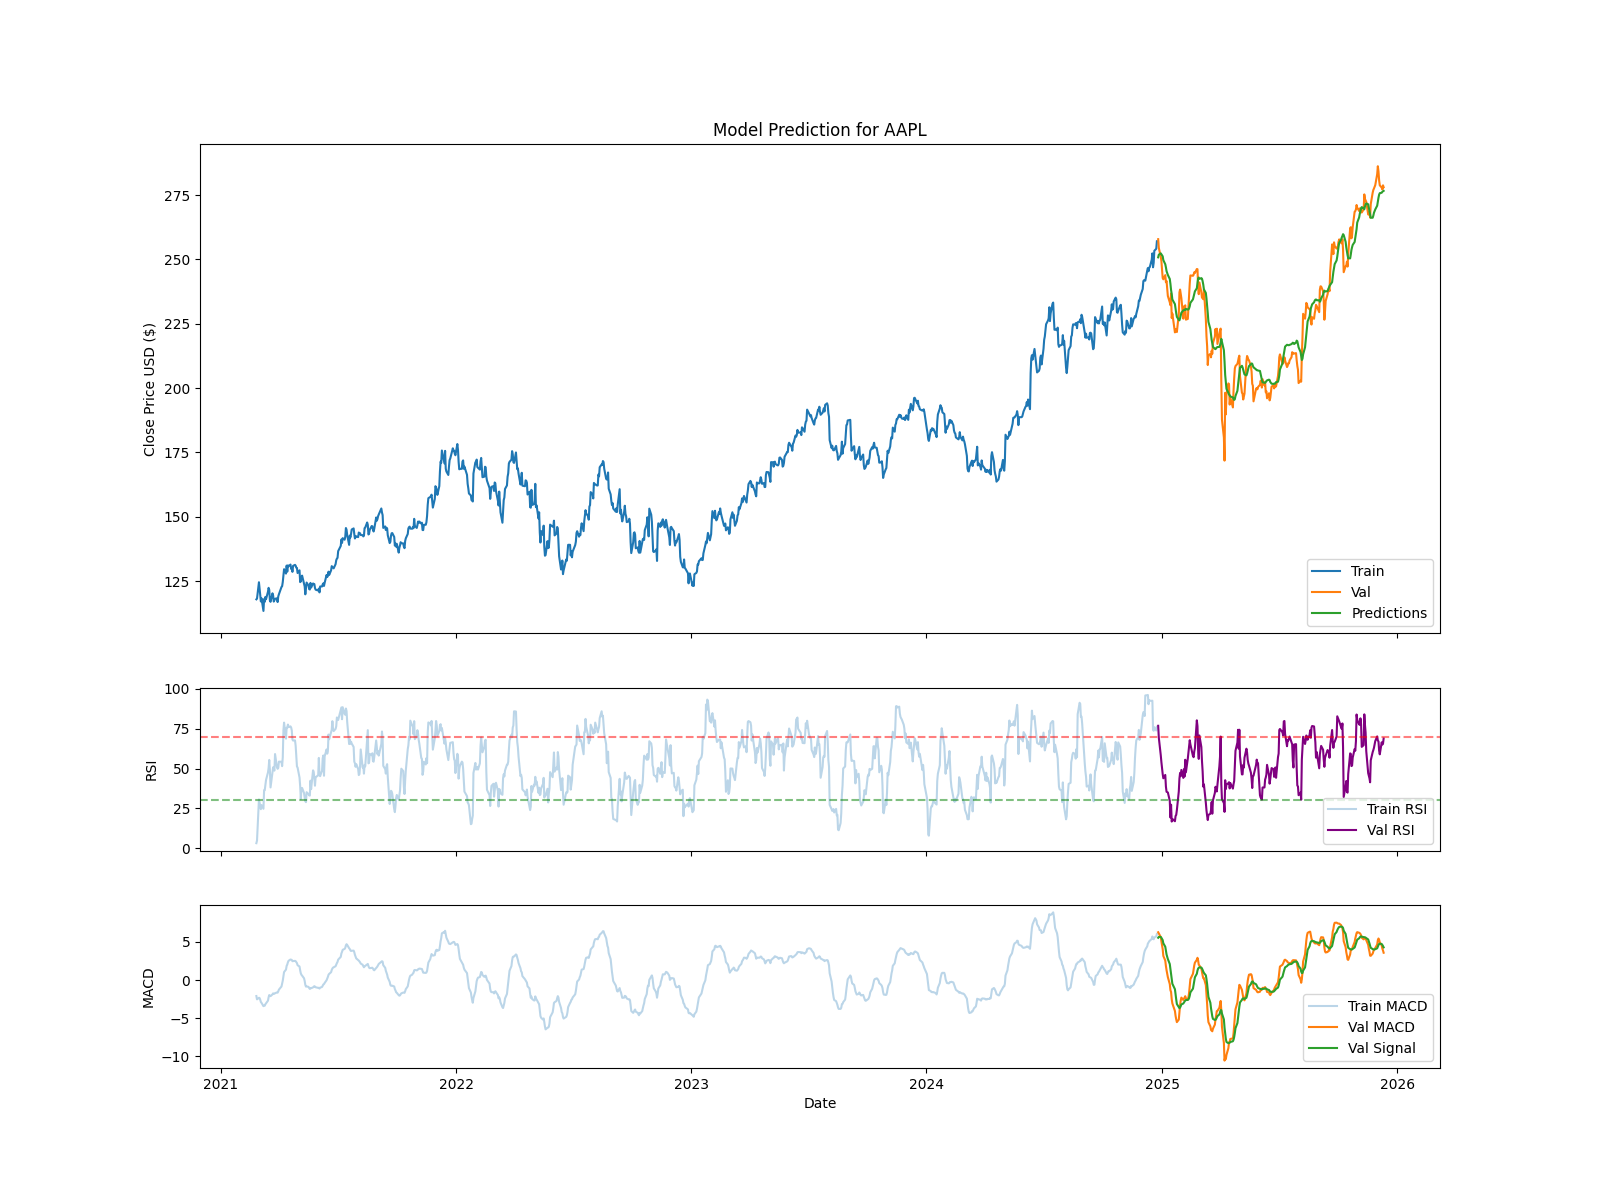
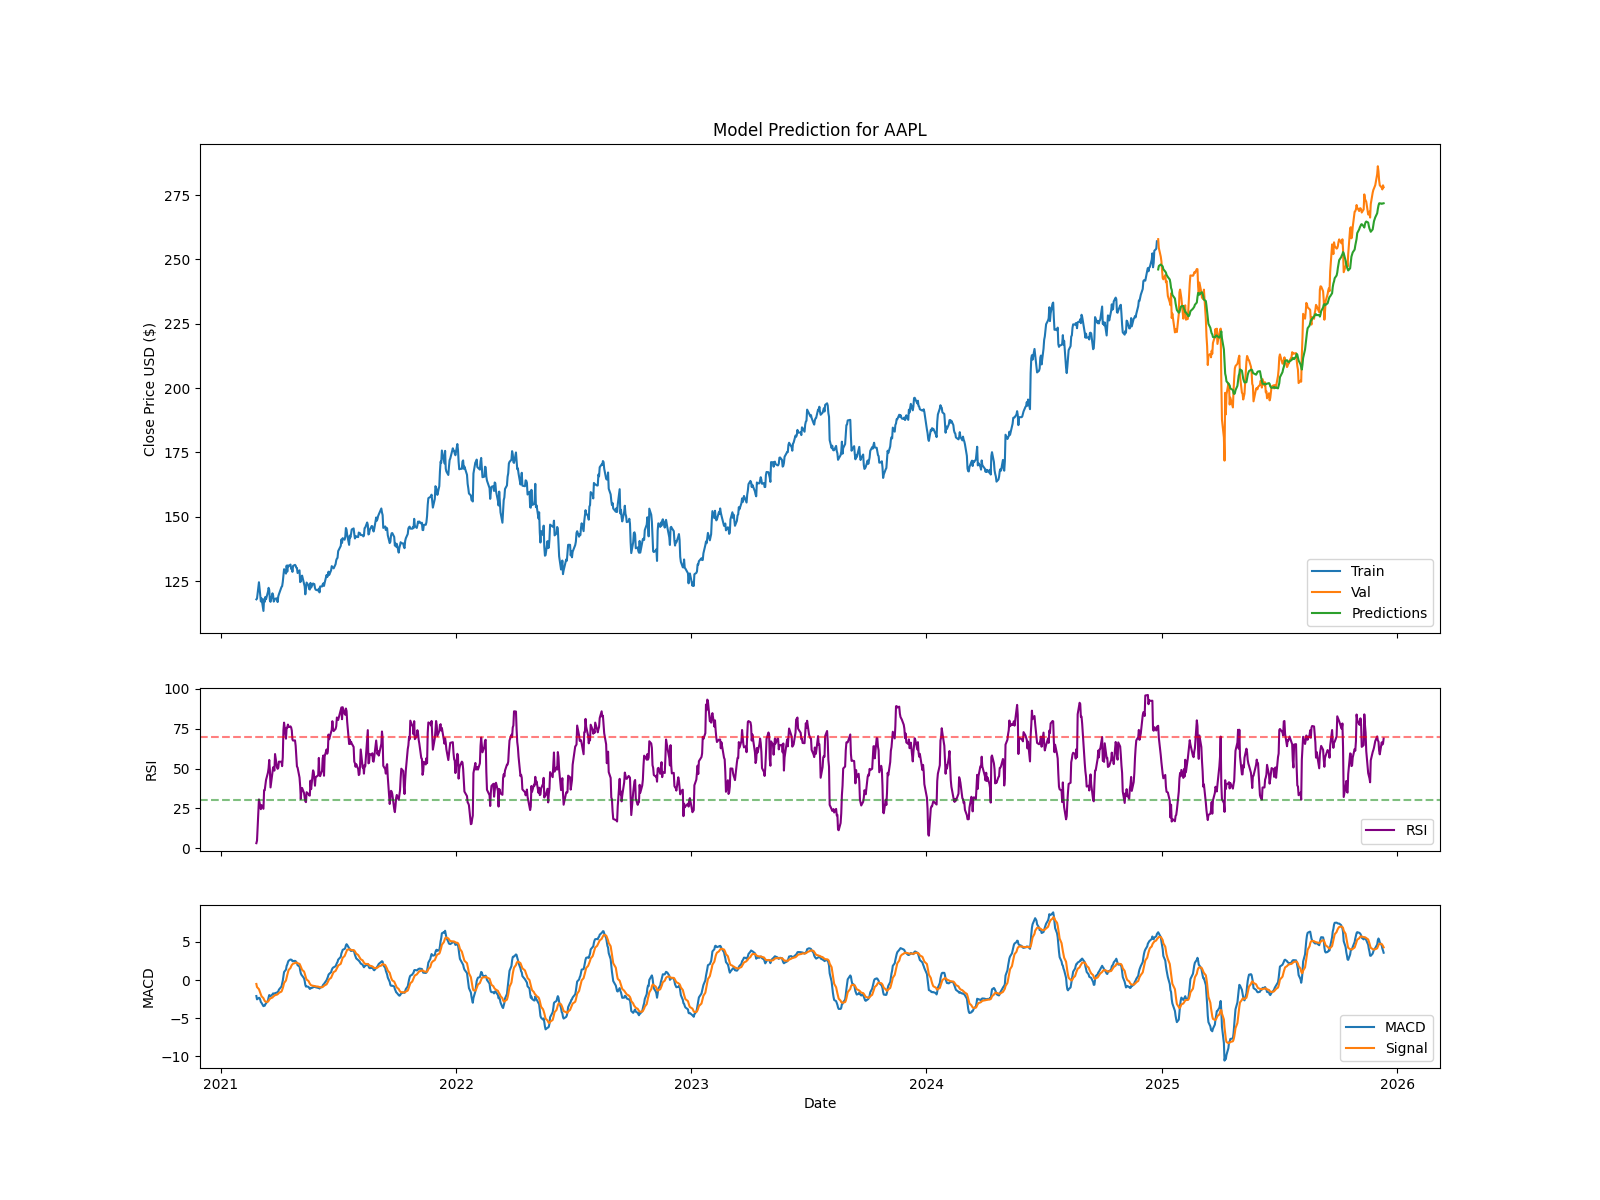
add required chart to code

diff --git a/train.py b/train.py
@@ -1,12 +1,26 @@
 import numpy as np
 import pandas as pd
 import matplotlib.pyplot as plt
+from mpl_toolkits.mplot3d import Axes3D
 from sklearn.preprocessing import MinMaxScaler
 from sklearn.metrics import mean_squared_error
 from tensorflow.keras.models import Sequential
-from tensorflow.keras.layers import LSTM, Dense
+from tensorflow.keras.layers import LSTM, Dense, Bidirectional, Dropout, SimpleRNN
+from tensorflow.keras.regularizers import l2
+from tensorflow.keras.callbacks import EarlyStopping, Callback
 from dataCollection import collect
-from visualization import visualizePCA
+
+class LossHistory(Callback):
+	def on_train_begin(self, logs={}):
+		self.losses = []
+		self.weights = []
+
+	def on_epoch_end(self, epoch, logs={}):
+		self.losses.append(logs.get('loss'))
+		# Get weights from the first dense layer (index -2)
+		# We take the mean of weights to simplify visualization to 1 dimension per layer/neuron
+		w = self.model.layers[-2].get_weights()[0] 
+		self.weights.append(np.mean(w))
 
 def add_technical_indicators(df):
 	df['SMA_50'] = df['Close'].rolling(window=50).mean()
@@ -30,6 +44,99 @@ def create_dataset(dataset, target, time_step=60):
 		dataX.append(a)
 		dataY.append(target[i + time_step])
 	return np.array(dataX), np.array(dataY)
+
+def build_baseline_model(input_shape):
+	"""Simple RNN model to serve as a baseline."""
+	model = Sequential()
+	model.add(SimpleRNN(50, input_shape=input_shape, return_sequences=False))
+	model.add(Dense(1))
+	model.compile(optimizer='adam', loss='mean_squared_error')
+	return model
+
+def build_advanced_model(input_shape):
+	"""Bidirectional LSTM with Dropout and Regularization."""
+	model = Sequential()
+	model.add(Bidirectional(LSTM(50, return_sequences=True, kernel_regularizer=l2(0.001)), input_shape=input_shape))
+	model.add(Dropout(0.2))
+	model.add(Bidirectional(LSTM(50, return_sequences=False, kernel_regularizer=l2(0.001))))
+	model.add(Dropout(0.2))
+	model.add(Dense(25, activation='relu'))
+	model.add(Dense(1))
+	model.compile(optimizer='adam', loss='mean_squared_error')
+	return model
+
+def plot_prediction_surface(model, last_sequence, scaler, target_scaler):
+	"""
+	Plots a 3D surface showing how the model's prediction changes 
+	with respect to Price and RSI variations in the last time step.
+	"""
+	base_seq = last_sequence[0].copy() # (60, 6)
+	
+	# Create ranges for Close Price (feature 0) and RSI (feature 2)
+	current_close = base_seq[-1, 0]
+	current_rsi = base_seq[-1, 2]
+	
+	close_range = np.linspace(current_close * 0.9, current_close * 1.1, 20)
+	rsi_range = np.linspace(max(0, current_rsi - 20), min(100, current_rsi + 20), 20)
+	
+	X_mesh, Y_mesh = np.meshgrid(close_range, rsi_range)
+	
+	# Prepare batch of inputs
+	batch_inputs = []
+	for i in range(X_mesh.shape[0]):
+		for j in range(X_mesh.shape[1]):
+			seq = base_seq.copy()
+			seq[-1, 0] = X_mesh[i, j]
+			seq[-1, 2] = Y_mesh[i, j]
+			batch_inputs.append(seq)
+			
+	batch_inputs = np.array(batch_inputs)
+	
+	# Predict
+	predictions = model.predict(batch_inputs, verbose=0)
+	predictions = target_scaler.inverse_transform(predictions)
+	
+	Z_mesh = predictions.reshape(X_mesh.shape)
+	
+	fig = plt.figure(figsize=(12, 8))
+	ax = fig.add_subplot(111, projection='3d')
+	surf = ax.plot_surface(X_mesh, Y_mesh, Z_mesh, cmap='viridis')
+	
+	ax.set_xlabel('Normalized Close Price (t)')
+	ax.set_ylabel('Normalized RSI (t)')
+	ax.set_zlabel('Predicted Price (t+1)')
+	ax.set_title('Prediction Surface: Price vs RSI vs Prediction')
+	fig.colorbar(surf)
+	plt.savefig('prediction_surface_3d.png')
+	plt.show()
+
+def plot_loss_landscape(history):
+	"""
+	Plots the Loss Landscape showing how the loss changes as weights evolve.
+	X-axis: Epochs
+	Y-axis: Mean Weight Value
+	Z-axis: Loss
+	"""
+	epochs = range(1, len(history.losses) + 1)
+	weights = history.weights
+	losses = history.losses
+	
+	fig = plt.figure(figsize=(12, 8))
+	ax = fig.add_subplot(111, projection='3d')
+	
+	# Create a path line
+	ax.plot(epochs, weights, losses, color='red', marker='o', linewidth=2, label='Training Path')
+	
+	# Create a surface for context (optional, using triangulation)
+	ax.plot_trisurf(epochs, weights, losses, cmap='viridis', alpha=0.6)
+	
+	ax.set_xlabel('Epochs')
+	ax.set_ylabel('Mean Weight Value')
+	ax.set_zlabel('Loss')
+	ax.set_title('Loss Landscape: Evolution of Weights & Loss')
+	plt.legend()
+	plt.savefig('loss_landscape_3d.png')
+	plt.show()
 
 if __name__ == "__main__":
 	ticker = input("Enter stock ticker (e.g. AAPL, TSLA): ").strip().upper()
@@ -68,20 +175,31 @@ if __name__ == "__main__":
 	time_step = 60
 	x_train, y_train = create_dataset(train_data, train_target, time_step)
 	
-	model = Sequential()
-	model.add(LSTM(50, return_sequences=True, input_shape=(x_train.shape[1], x_train.shape[2])))
-	model.add(LSTM(50, return_sequences=False))
-	model.add(Dense(25))
-	model.add(Dense(1))
+	# --- Baseline Model ---
+	print("\nTraining Baseline Model (Simple RNN)...")
+	baseline_model = build_baseline_model((x_train.shape[1], x_train.shape[2]))
+	baseline_model.fit(x_train, y_train, batch_size=32, epochs=10, verbose=1)
 	
-	model.compile(optimizer='adam', loss='mean_squared_error')
-	model.fit(x_train, y_train, batch_size=1, epochs=1)
+	# --- Advanced Model ---
+	print("\nTraining Advanced Model (Bi-LSTM + Dropout)...")
+	model = build_advanced_model((x_train.shape[1], x_train.shape[2]))
+	
+	loss_history = LossHistory()
+	early_stopping = EarlyStopping(monitor='loss', patience=10, restore_best_weights=True)
+	model.fit(x_train, y_train, batch_size=32, epochs=50, callbacks=[early_stopping, loss_history], verbose=1)
 	
 	test_data = scaled_data[training_data_len - time_step:, :]
 	test_target = scaled_target[training_data_len - time_step:]
 	
 	x_test, y_test = create_dataset(test_data, test_target, time_step)
 	
+	# Evaluate Baseline
+	baseline_preds = baseline_model.predict(x_test)
+	baseline_preds = target_scaler.inverse_transform(baseline_preds)
+	baseline_rmse = np.sqrt(mean_squared_error(df['Close'][training_data_len:], baseline_preds))
+	print(f"Baseline Model RMSE: {baseline_rmse}")
+
+	# Evaluate Advanced
 	predictions = model.predict(x_test)
 	predictions = target_scaler.inverse_transform(predictions)
 	
@@ -90,8 +208,16 @@ if __name__ == "__main__":
 
 	rmse = np.sqrt(mean_squared_error(valid['Close'], valid['Predictions']))
 	mape = np.mean(np.abs((valid['Close'] - valid['Predictions']) / valid['Close'])) * 100
-	print(f"Root Mean Squared Error (RMSE): {rmse}")
-	print(f"Mean Absolute Percentage Error (MAPE): {mape}%")
+	print(f"Advanced Model RMSE: {rmse}")
+	print(f"Advanced Model MAPE: {mape}%")
+	
+	# Plot 3D Surface
+	last_60_days = scaled_data[-60:]
+	X_test_next = np.array([last_60_days])
+	X_test_next = np.reshape(X_test_next, (X_test_next.shape[0], X_test_next.shape[1], X_test_next.shape[2]))
+	
+	plot_prediction_surface(model, X_test_next, scaler, target_scaler)
+	plot_loss_landscape(loss_history)
 	
 	fig, (ax1, ax2, ax3) = plt.subplots(3, 1, figsize=(16, 12), sharex=True, gridspec_kw={'height_ratios': [3, 1, 1]})
 	
@@ -103,16 +229,14 @@ if __name__ == "__main__":
 	ax1.legend(loc='lower right')
 	
 	ax2.set_ylabel('RSI')
-	ax2.plot(df.index[:training_data_len], df['RSI'][:training_data_len], label='Train RSI', alpha=0.3)
-	ax2.plot(valid.index, valid['RSI'], label='Val RSI', color='purple')
+	ax2.plot(df.index, df['RSI'], label='RSI', color='purple')
 	ax2.axhline(70, linestyle='--', alpha=0.5, color='red')
 	ax2.axhline(30, linestyle='--', alpha=0.5, color='green')
 	ax2.legend(loc='lower right')
 	
 	ax3.set_ylabel('MACD')
-	ax3.plot(df.index[:training_data_len], df['MACD'][:training_data_len], label='Train MACD', alpha=0.3)
-	ax3.plot(valid.index, valid['MACD'], label='Val MACD')
-	ax3.plot(valid.index, valid['Signal_Line'], label='Val Signal')
+	ax3.plot(df.index, df['MACD'], label='MACD')
+	ax3.plot(df.index, df['Signal_Line'], label='Signal')
 	ax3.legend(loc='lower right')
 	
 	plt.xlabel('Date')
